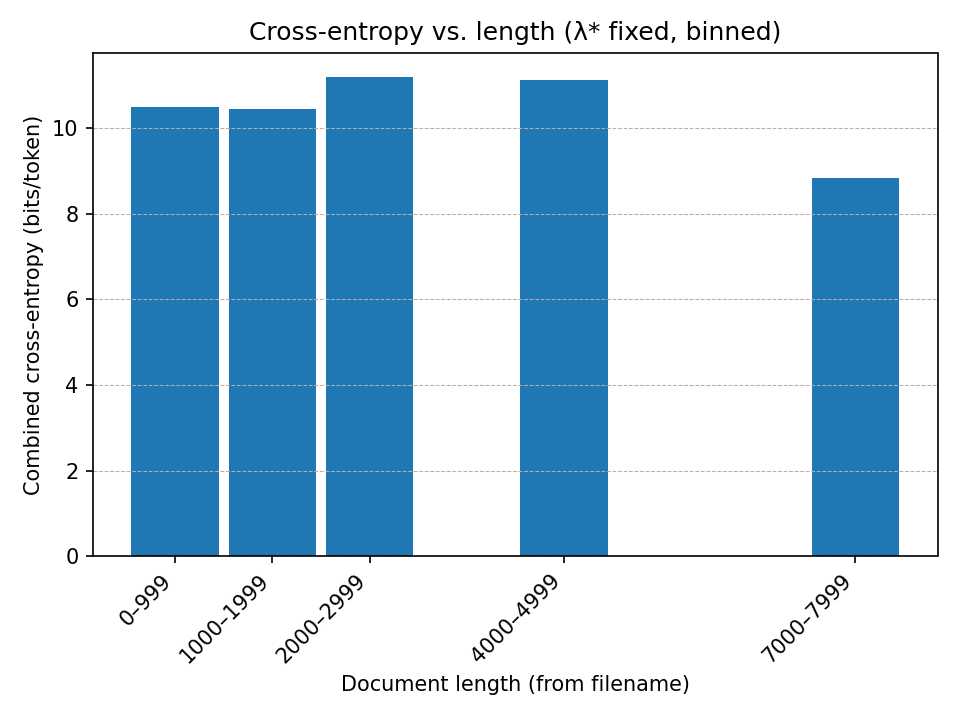
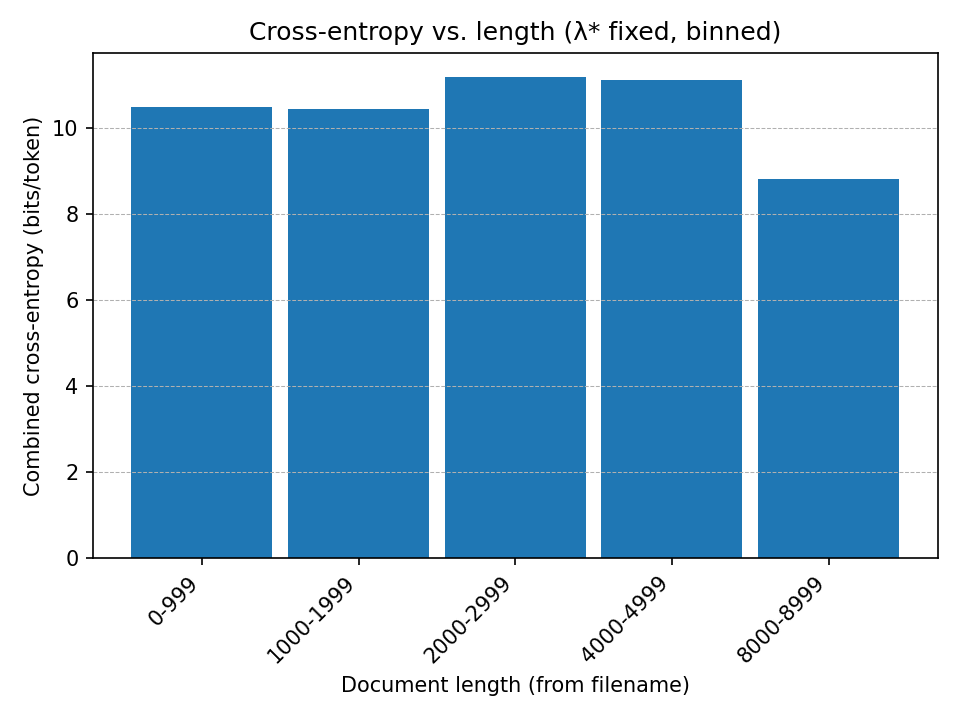
modify 3f

diff --git a/code/curve.py b/code/curve.py
@@ -10,6 +10,7 @@
 import argparse, subprocess, re, glob, csv
 from collections import defaultdict, Counter
 from pathlib import Path
+from turtle import width
 
 import matplotlib.pyplot as plt
 
@@ -172,26 +173,29 @@ def main():
 
 
     # 5) histogram plots (binned by length)
-    bin_w = max(1, int(args.bin_width))
+    bin_w = args.bin_width
     # rows: (L, err_pct, wrong, total, bits, tok_g, tok_s)
     if not rows:
         print("No rows to plot."); return
-    minL = min(r[0] for r in rows)
-    maxL = max(r[0] for r in rows)
-
+    L_list = [r[0] for r in rows]
+    max_len  = max(L_list)
+    max_edge = ((max_len // bin_w) + 1) * bin_w 
+    edges    = list(range(0, max_edge + 1, bin_w))
+    K = len(edges) - 1
     # create bins [b, b+bin_w)
-    bins = list(range((minL // bin_w) * bin_w, (maxL // bin_w) * bin_w + bin_w, bin_w))
-
+    bins = [f"{edges[i]}-{edges[i+1]-1}" for i in range(K)]
     # aggregator
     import math
-    bin_err_wrong   = [0] * (len(bins) - 1)
-    bin_err_total   = [0] * (len(bins) - 1)
-    bin_tok_sum     = [0] * (len(bins) - 1)
-    bin_bits_weight = [0.0] * (len(bins) - 1)  # = sum( bits_L * tok_L )
+    bin_err_wrong   = [0] * K
+    bin_err_total   = [0] * K
+    bin_tok_sum     = [0] * K
+    bin_bits_weight = [0.0] * K  # = sum( bits_L * tok_L )
 
     def bin_index(L):
         # find the bin [bins[i], bins[i+1]) that L belongs to
-        i = min(max((L - bins[0]) // bin_w, 0), len(bins) - 2)
+        i = L // bin_w
+        if i >= K:
+            i = K-1
         return int(i)
 
     for L, err_pct, wrong, total, bits, tok_g, tok_s in rows:
@@ -204,42 +208,39 @@ def main():
             bin_bits_weight[i] += float(bits) * tokL
 
     # calculate metrics for each bin
-    bin_centers = [ (bins[i] + bins[i+1]) / 2 for i in range(len(bins)-1) ]
-    bin_labels  = [ f"{bins[i]}-{bins[i+1]-1}" for i in range(len(bins)-1) ]
-    bin_err_pct = [ (100.0 * bin_err_wrong[i] / bin_err_total[i]) if bin_err_total[i] > 0 else float("nan")
-                    for i in range(len(bins)-1) ]
-    bin_bits    = [ (bin_bits_weight[i] / bin_tok_sum[i]) if bin_tok_sum[i] > 0 else float("nan")
-                    for i in range(len(bins)-1) ]
+    bin_err_pct_all = [(100.0 * bin_err_wrong[i] / bin_err_total[i]) if bin_err_total[i] > 0 else float("nan")
+                   for i in range(K)]
+    bin_bits_all    = [(bin_bits_weight[i] / bin_tok_sum[i]) if bin_tok_sum[i] > 0 else float("nan")
+                   for i in range(K)]
 
     # remove empty bins to avoid clutter
-    keep = [i for i in range(len(bins)-1) if bin_err_total[i] > 0]
-    bin_centers = [bin_centers[i] for i in keep]
-    bin_labels  = [bin_labels[i]  for i in keep]
-    bin_err_pct = [bin_err_pct[i] for i in keep]
-    bin_bits    = [bin_bits[i]    for i in keep]
+    keep = [i for i in range(K) if bin_err_total[i] > 0]
+    bin_labels = [bins[i]  for i in keep]
+    bin_err_pct = [bin_err_pct_all[i] for i in keep]
+    bin_bits    = [bin_bits_all[i]    for i in keep]
 
     # plot bar chart: error rate
     import matplotlib.pyplot as plt
-    width = bin_w * 0.9
+    xpos = list(range(len(keep)))
+    width = 0.9 
     plt.figure()
-    plt.bar(bin_centers, bin_err_pct, width=width, align="center")
+    plt.bar(xpos, bin_err_pct, width=width, align="center")
     plt.xlabel("Document length (from filename)")
     plt.ylabel("Dev 0/1 error (%)")
     plt.title("Error vs. length (λ* fixed, binned)")
     plt.grid(True, axis="y", linestyle="--", linewidth=0.5)
-    plt.xticks(bin_centers, bin_labels, rotation=45, ha="right")
+    plt.xticks(xpos, bin_labels, rotation=45, ha="right")
     plt.tight_layout()
     err_png = OUTDIR / "length_curve_error.png"
     plt.savefig(err_png, dpi=150)
 
-    # plot bar chart: bits/token (token-weighted average)
-    plt.figure()
-    plt.bar(bin_centers, bin_bits, width=width, align="center")
+    plt.figure()    
+    plt.bar(xpos, bin_bits, width=width, align="center")
     plt.xlabel("Document length (from filename)")
     plt.ylabel("Combined cross-entropy (bits/token)")
     plt.title("Cross-entropy vs. length (λ* fixed, binned)")
     plt.grid(True, axis="y", linestyle="--", linewidth=0.5)
-    plt.xticks(bin_centers, bin_labels, rotation=45, ha="right")
+    plt.xticks(xpos, bin_labels, rotation=45, ha="right")
     plt.tight_layout()
     bits_png = OUTDIR / "length_curve_bits.png"
     plt.savefig(bits_png, dpi=150)

diff --git a/code/langid_curve.py b/code/langid_curve.py
@@ -1,5 +1,5 @@
 # coding: utf-8
-# curve_langid.py — Language ID (english_spanish) Q3(f)-style: performance vs. length buckets
+# curve_langid.py — Language ID (english_spanish) Q3(g)-style: performance vs. length buckets
 # Usage:
 #   python ./code/langid_curve.py <english_model> <spanish_model> --prior 0.7
 # Outputs:

diff --git a/nlp_HW3.md b/nlp_HW3.md
@@ -67,8 +67,8 @@ best $\lambda$ on combined  -> 0.005 (9.068397 bits/token)
 Sweeping $\lambda$ in {5, 0.5, 0.05, 0.005, 0.0005}, the dev cross-entropy is minimized at $\lambda=0.005$ (combined 9.068 bits/token). Larger $\lambda$ over-smooths toward uniform, while very small $\lambda$ under-smooths and overfits, so a mid-range $\lambda$ performs best.
 
 (f)
-![length_loss](image.png)
-![length_error](image-1.png)
+![length_loss](image-6.png)
+![length_error](image-7.png)
 With λ* fixed, combined cross-entropy is fairly flat around 10–11 bits/token from 0–5k, then drops to ~8.9 bits/token for 7–8k, suggesting longer documents are easier because they provide more evidence. The 0/1 error decreases from ~25% (0–999) to ~16% (1k–1.9k), but the 100% spikes in the 2–3k and 4–5k bins are artifacts of extremely tiny bin counts (likely 1 doc), so they aren’t statistically meaningful. Overall, performance improves with length when bins contain enough examples; sparse-length regions should be merged or ignored.
 
 (g)
